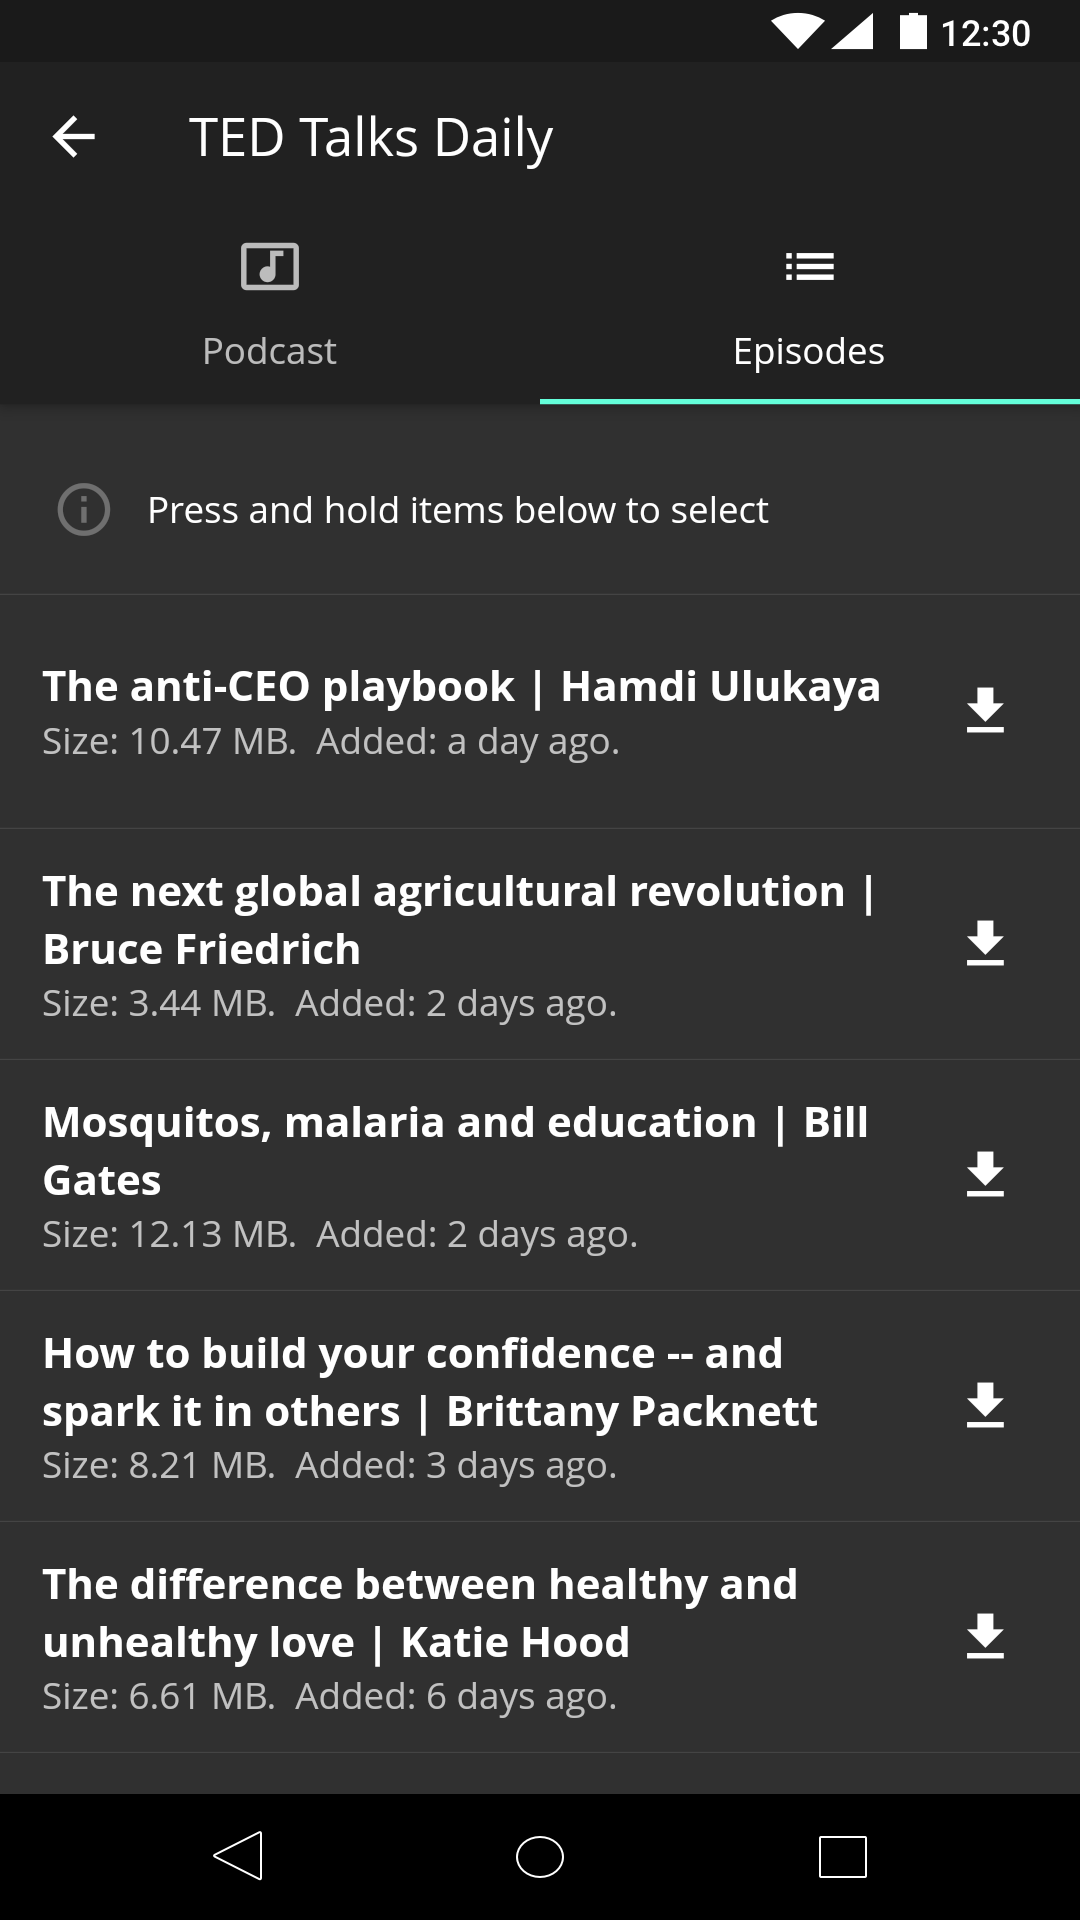
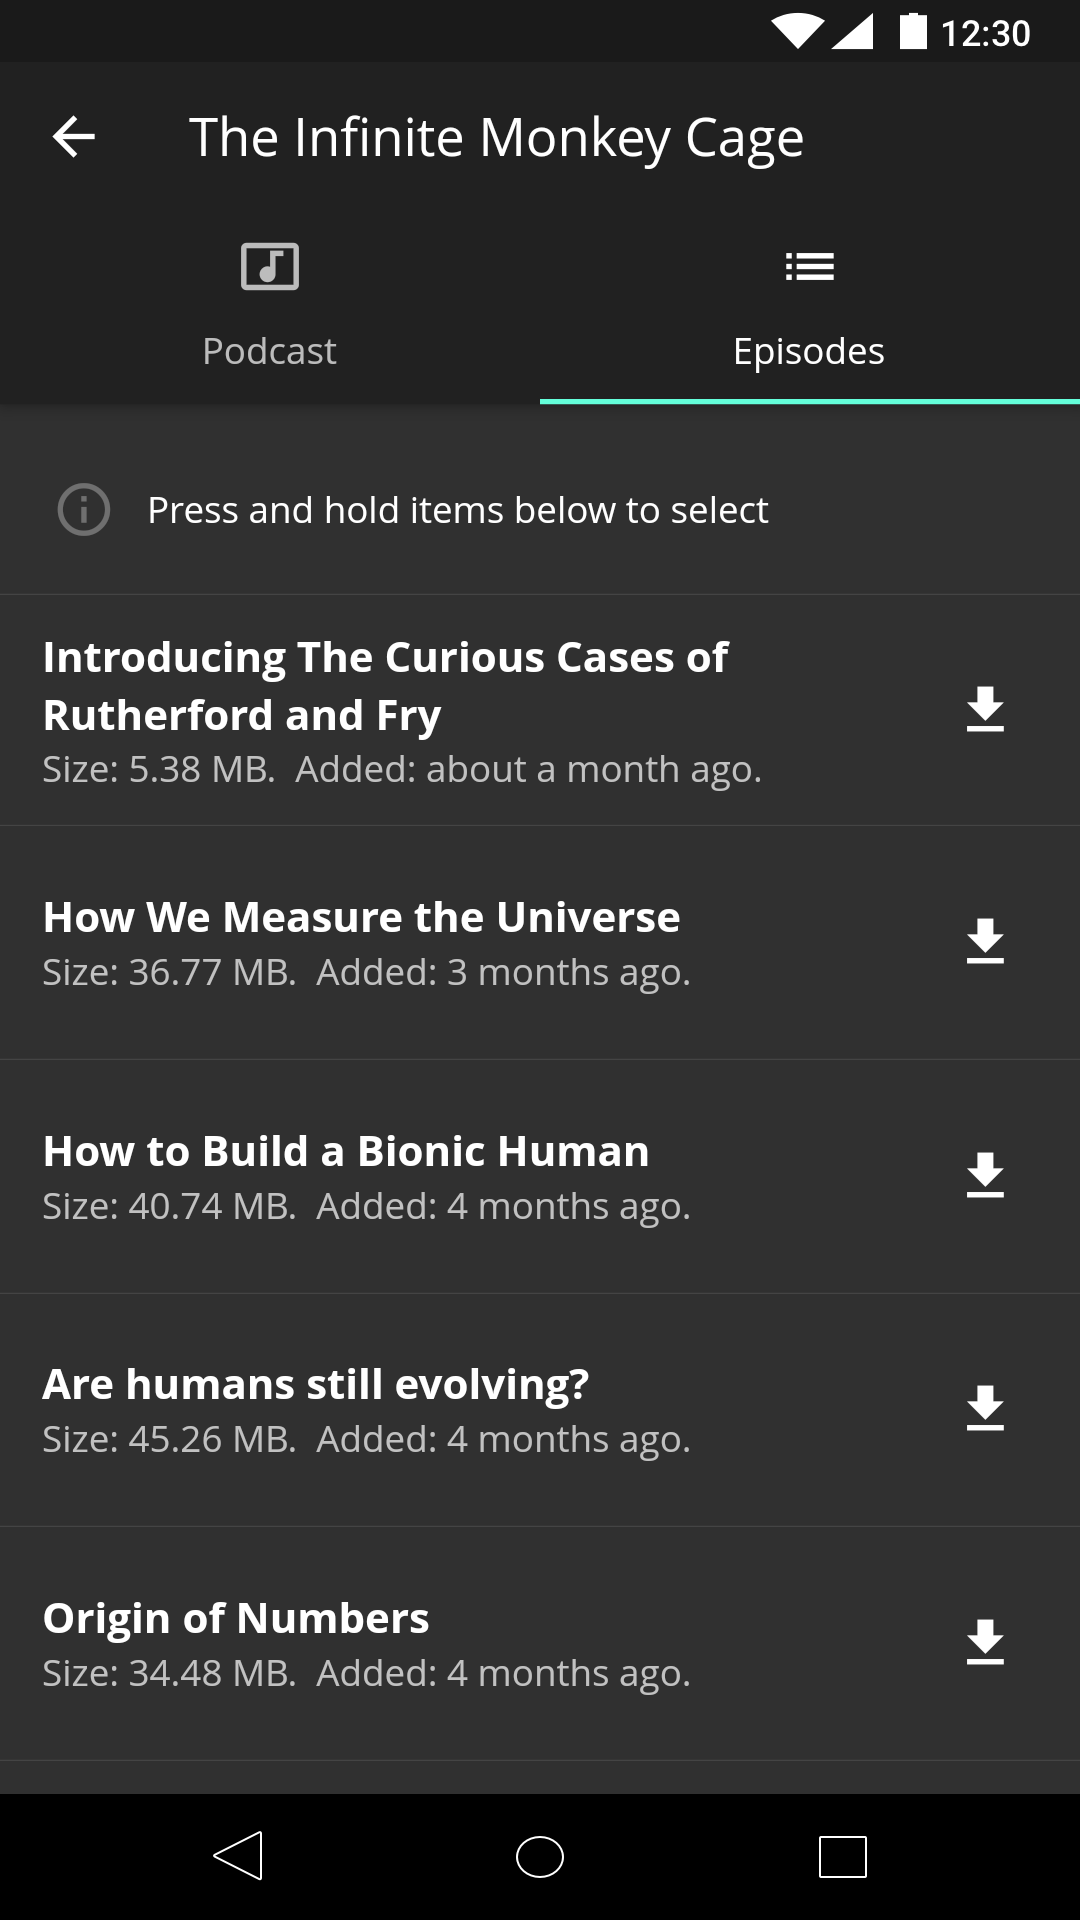
Replace screenshot with The Infinite Monkey Cage

diff --git a/test_driver/app_test.dart b/test_driver/app_test.dart
@@ -46,11 +46,11 @@ void main() {
 
       final SerializableFinder podcastSearchField = find.byValueKey('podcastSearch');
       await driver.tap(podcastSearchField);
-      await driver.enterText('TED');
-      await driver.waitFor(find.text('TED'));
+      await driver.enterText('infinite monkey');
+      await driver.waitFor(find.text('infinite monkey'));
       final SerializableFinder podcastSearchButton = find.byTooltip('Search for Podcasts');
       await driver.tap(podcastSearchButton);
-      final SerializableFinder podcastResult = find.text('TED Talks Daily');
+      final SerializableFinder podcastResult = find.text('The Infinite Monkey Cage');
       await driver.waitFor(podcastResult);
       await screenshot(driver, config, 'explore-with-results');
 
